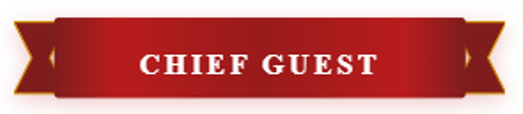
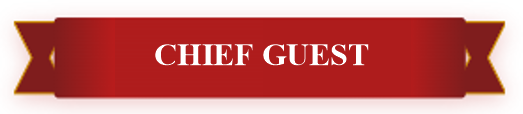
fix: update date to '16th October (Friday), 2026' and perfect ribbon text and schedule alignment

Changed region(s): [[0.2447, 0.3684, 0.7342, 0.6579]]

diff --git a/src/app/layout.tsx b/src/app/layout.tsx
@@ -25,11 +25,11 @@ export const metadata: Metadata = {
   metadataBase: new URL('https://qualifyias.com'),
   title: 'QUALIFY IAS - Office Inauguration Invitation',
   description:
-    'You are cordially invited to the inauguration of our new office on Friday, 16th October 2026 at Ashok Nagar, Hyderabad. Chief Guest: Jeenu Jaswanth Chandra (AIR 23, UPSC CSE 2025). Founder: Ramareddipeta Rajinikanth.',
+    'You are cordially invited to the inauguration of our new office on 16th October (Friday), 2026 at Ashok Nagar, Hyderabad. Chief Guest: Jeenu Jaswanth Chandra (AIR 23, UPSC CSE 2025). Founder: Ramareddipeta Rajinikanth.',
   openGraph: {
     title: 'QUALIFY IAS - Office Inauguration Invitation',
     description:
-      'You are cordially invited to the inauguration of our new office on Friday, 16th October 2026 at Ashok Nagar, Hyderabad.',
+      'You are cordially invited to the inauguration of our new office on 16th October (Friday), 2026 at Ashok Nagar, Hyderabad.',
     type: 'website',
     locale: 'en_IN',
     siteName: 'QUALIFY IAS',
@@ -46,7 +46,7 @@ export const metadata: Metadata = {
     card: 'summary_large_image',
     title: 'QUALIFY IAS - Office Inauguration Invitation',
     description:
-      'You are cordially invited to the inauguration of our new office on Friday, 16th October 2026 at Ashok Nagar, Hyderabad.',
+      'You are cordially invited to the inauguration of our new office on 16th October (Friday), 2026 at Ashok Nagar, Hyderabad.',
     images: ['/qualify_ias_logo.png'],
   },
   robots: {

diff --git a/src/app/globals.css b/src/app/globals.css
@@ -247,7 +247,7 @@ div[data-next-badge] {
   justify-content: space-between;
   gap: 10px;
   width: 100%;
-  padding: 5px 12px 5px 5px;
+  padding: 6px 12px 6px 8px;
   background: #f9fafb;
   border: 1.2px solid rgba(0, 0, 0, 0.08);
   border-radius: 14px;
@@ -275,6 +275,7 @@ div[data-next-badge] {
   gap: 12px;
   text-align: left;
   min-width: 0;
+  flex: 1;
 }
 
 .unified-schedule-single .unified-schedule-icon-wrap {
@@ -288,15 +289,16 @@ div[data-next-badge] {
 .unified-schedule-single .unified-schedule-info {
   display: flex;
   flex-direction: column;
+  justify-content: center;
   min-width: 0;
 }
 
 .unified-schedule-single .unified-schedule-day {
   font-family: var(--font-serif);
-  font-size: 14.5px;
+  font-size: 14px;
   font-weight: 800;
   color: #000000;
-  margin: 0 0 2px 0;
+  margin: 0 0 3px 0;
   line-height: 1.25;
   white-space: nowrap;
 }

diff --git a/src/components/ActionToolbar.tsx b/src/components/ActionToolbar.tsx
@@ -67,7 +67,7 @@ export default function ActionToolbar() {
   const handleShare = async () => {
     const shareData = {
       title: 'QUALIFY IAS - Offline Centre Inauguration Invitation',
-      text: 'You are cordially invited to the inauguration of QUALIFY IAS Offline Centre on Friday, 16th October 2026 at Ashok Nagar, Hyderabad.',
+      text: 'You are cordially invited to the inauguration of QUALIFY IAS Offline Centre on 16th October (Friday), 2026 at Ashok Nagar, Hyderabad.',
       url: typeof window !== 'undefined' ? window.location.href : '',
     };
 

diff --git a/src/app/page.tsx b/src/app/page.tsx
@@ -74,7 +74,7 @@ export default function InvitationPage() {
                   <IosCalendarIcon size={50} />
                 </div>
                 <div className="unified-schedule-info">
-                  <h4 className="unified-schedule-day">Friday, 16th October 2026</h4>
+                  <h4 className="unified-schedule-day">16th October (Friday), 2026</h4>
                   <p className="unified-schedule-time">11:00 AM Onwards</p>
                 </div>
               </div>

diff --git a/src/components/AppBrandIcons.tsx b/src/components/AppBrandIcons.tsx
@@ -19,7 +19,7 @@ export function IosCalendarIcon({ size = 38, className = '' }: { size?: number; 
     >
       <img
         src="/calendar_original_icon.png"
-        alt="Friday, 16th October 2026"
+        alt="16th October (Friday), 2026"
         width={size}
         height={size}
         style={{
